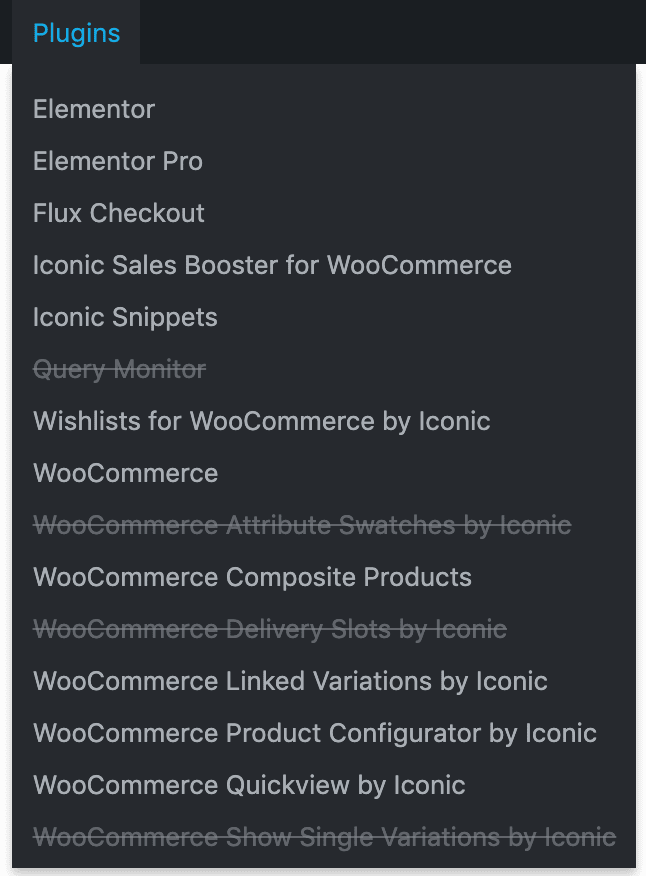
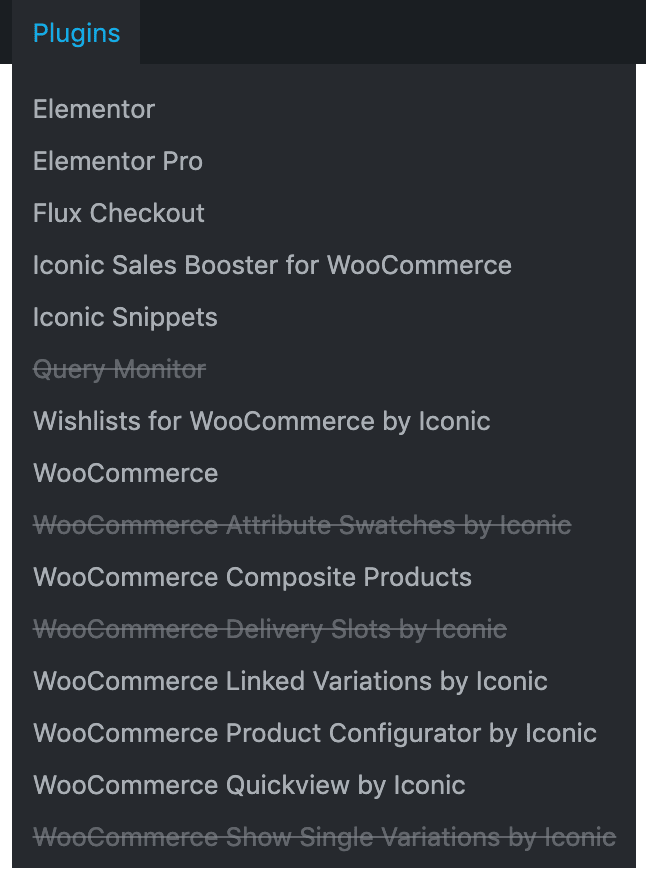
Update image

Changed region(s): [[0.0, 0.0925, 0.9907, 1.0]]

diff --git a/readme.md b/readme.md
@@ -6,7 +6,7 @@ From here you can click each active plugin to temporarily disable it. Click it a
 
 **Important:** This won't work unless it's installed as a [must-use plugin](https://wordpress.org/support/article/must-use-plugins/).
 
-![Image of Temporary Plugin Deactivation by Iconic](https://github.com/iconicwp/iconic-tpd/blob/master/github/plugins-menu.png?raw=true)
+![Image of Temporary Plugin Deactivation by Iconic](https://github.com/iconicwp/iconic-tpd/blob/master/github/plugins-menu.png?raw=true =323x)
 
 ## Installation
 
